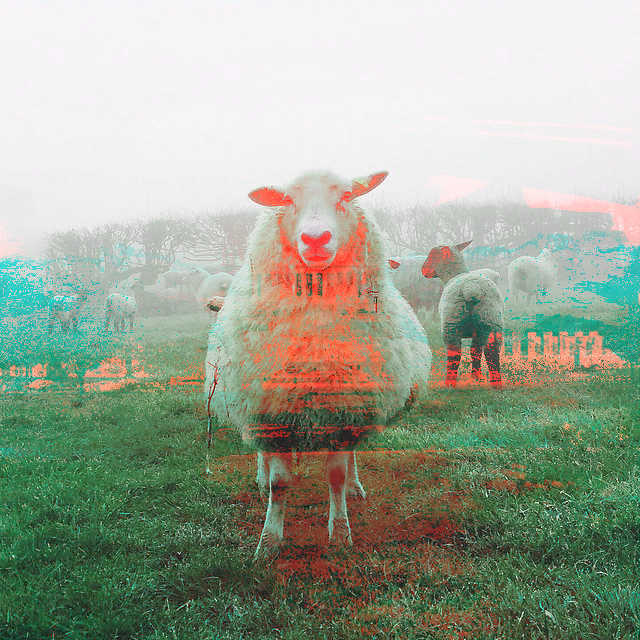
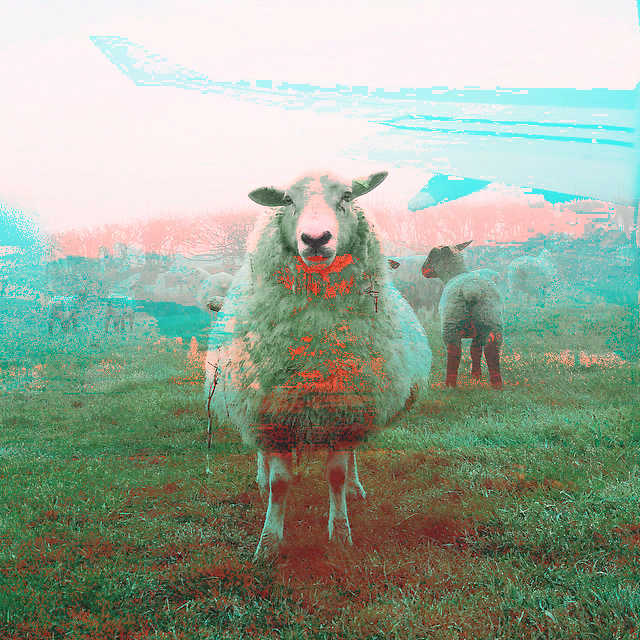
0076 - node --harmony /index.js

diff --git a/sketches/0076/index.js b/sketches/0076/index.js
@@ -91,7 +91,7 @@ co(function*(){
 
 	var mash = function(a){
 		a.sort(function(a, b){
-			return b-a;
+			return a-b;
 		});
 		return a[0]+a[1]+a[3];
 	}
@@ -142,18 +142,42 @@ co(function*(){
 
 	for(var x = 0; x<640; x++){
 		for(var y=0; y<640; y++){
-			var red = [imgRed.get(x, y, 0), imgGreen.get(x, y, 0), imgBlue.get(x, y, 0)].sort();
-			var green = [imgRed.get(x, y, 1), imgGreen.get(x, y, 1), imgBlue.get(x, y, 1)].sort();
-			var blue = [imgRed.get(x, y, 2), imgGreen.get(x, y, 2), imgBlue.get(x, y, 2)].sort();
+			var info = {};
+			var reds = [imgRed.get(x, y, 0), imgGreen.get(x, y, 0), imgBlue.get(x, y, 0)].sort();
+			var greens = [imgRed.get(x, y, 1), imgGreen.get(x, y, 1), imgBlue.get(x, y, 1)].sort();
+			var blues = [imgRed.get(x, y, 2), imgGreen.get(x, y, 2), imgBlue.get(x, y, 2)].sort();
 
-			// var maxs = [{
-			// 	color: "red",
-			// 	val: red[0]
-			// }]
+			info.red = reds;
+			info.green = greens;
+			info.blue = blues;
 
-			newImg.set(x, y, 0, red[1]);
-			newImg.set(x, y, 0, green[1]);
-			newImg.set(x, y, 0, blue[1]);
+			var maxs = [
+				{
+					color: "red",
+					val: reds[0]
+				},
+				{
+					color: "green",
+					val: greens[0]
+				},
+				{
+					color: "blue",
+					val: blues[0]
+				}
+			]
+
+			maxs.sort(function(a, b){
+				return a.val - b.val
+			});
+
+			var colors = {};
+			for(var i=0; i<maxs.length; i++){
+				colors[maxs[i].color] = info[maxs[i].color][i];
+			}
+
+			newImg.set(x, y, 0, colors.red);
+			newImg.set(x, y, 0, colors.green);
+			newImg.set(x, y, 0, colors.blue);
 		}
 	}
 
